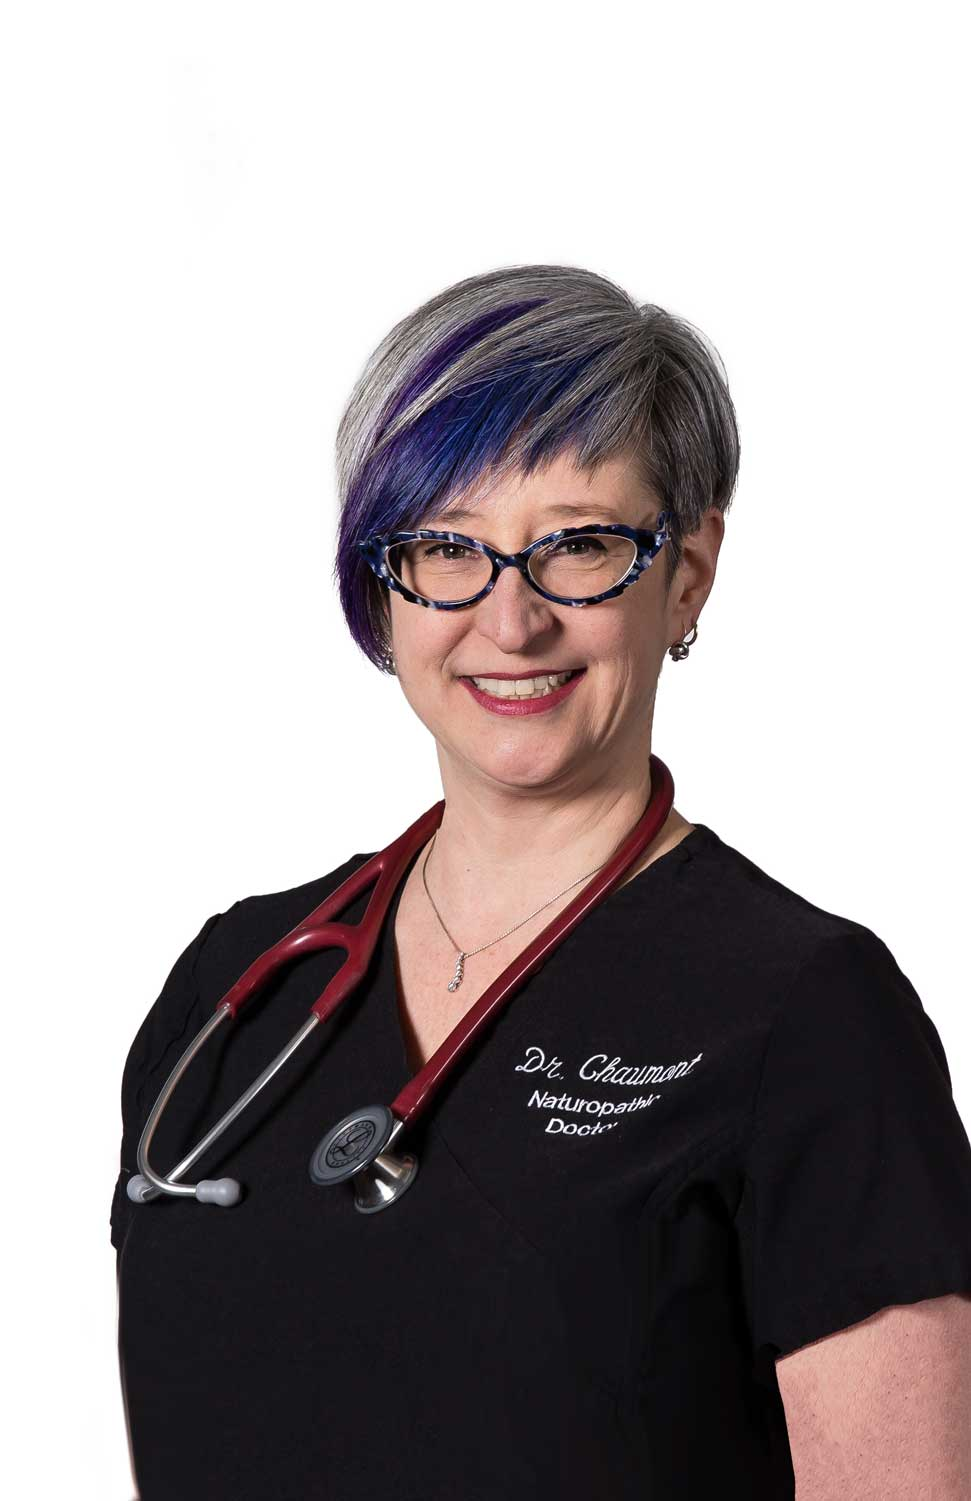
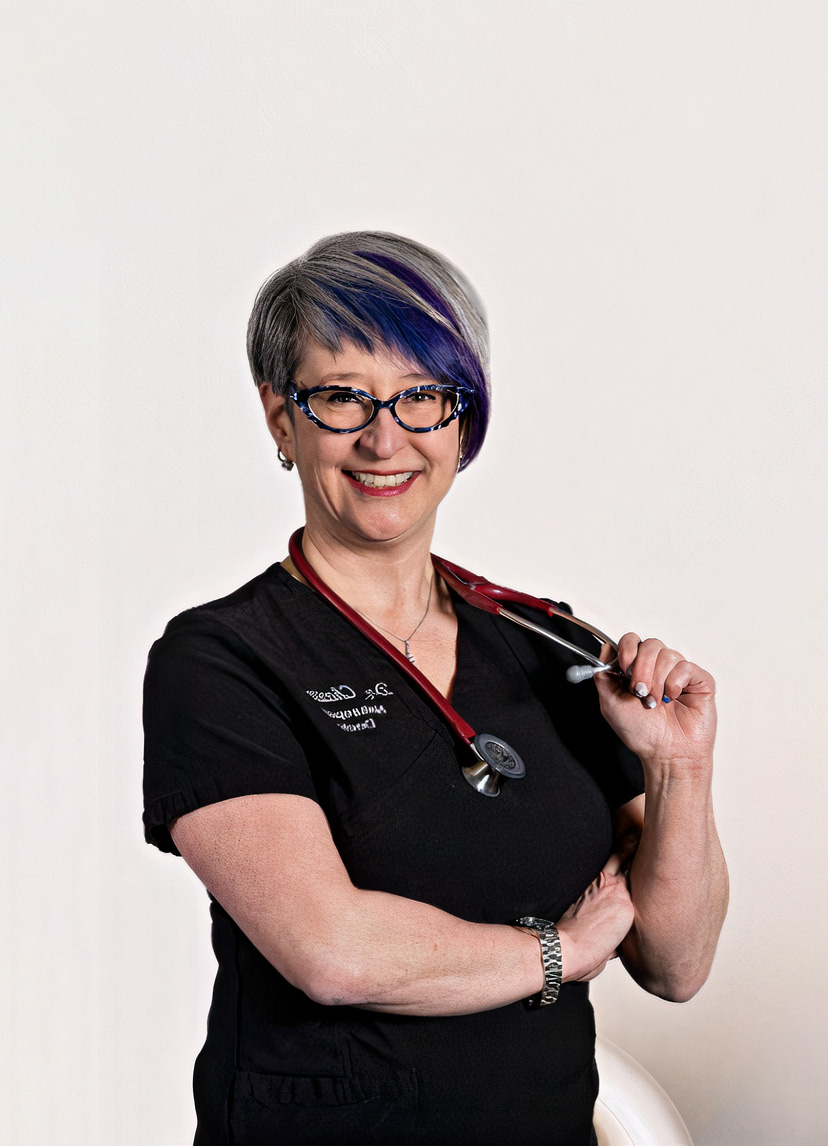
Add Emma & Update Photos: - Added Emma Carpenter to team - Added NST page - Update practitioner photos - Added new massage services - Updated main page hero section

diff --git a/app/assets/stylesheets/styles.scss b/app/assets/stylesheets/styles.scss
@@ -49,14 +49,18 @@
   background-size: cover;
   background-position: center;
   background-repeat: no-repeat;
-  background-image: linear-gradient(rgba(0, 0, 0, 0.2), rgba(0, 0, 0, 0.6)),
-                    image_url("backgrounds/landscape/ayla-at-desk.jpg");
+  background-image: linear-gradient(rgba(255, 255, 255, 0.5), rgba(255, 255, 255, 1)),
+                    image_url("backgrounds/landscape/family.jpg");
 
   @include media-breakpoint-down(md) {
     background-position: 70%;
   }
   &__title {
-    font-size: 2rem;
+    font-size: 4rem;
+    margin-bottom: 0;
+  }
+  &__body {
+    font-size: 1.5rem;
   }
 }
 
@@ -99,7 +103,7 @@
     &--practitioner {
       height: 45rem;
       @include media-breakpoint-down(sm) {
-        height: 20rem;
+        height: 30rem;
       }
     }
   }
@@ -229,22 +233,25 @@
   &--services {
     @include banner__image(30rem, "backgrounds/landscape/explaining.jpg", 0.5);
   }
+  &--team {
+    @include banner__image(30rem, "backgrounds/landscape/team.jpg", 0.5);
+  }
   &--products {
     @include banner__image(30rem, "backgrounds/landscape/herbs.jpg", 0.4);
   }
   &--iv-therapy {
     @include banner__image(30rem, "backgrounds/landscape/iv-lounge.jpg", 0.4);
   }
-  &--injections {
-    @include banner__image(30rem, "backgrounds/landscape/injections.jpg", 0.4);
+  &--nst {
+    @include banner__image(30rem, "backgrounds/landscape/neurostructural-integration-technique.jpg", 0.4);
   }
   &--article {
     @include banner__image(30rem, "backgrounds/landscape/holding.jpg", 0.4);
   }
-  &--faq-1 {
+  &--naturopathy-1 {
     @include banner__image(30rem, "backgrounds/landscape/kitchen.jpg", 0.4);
   }
-  &--faq-2 {
+  &--naturopathy-2 {
     @include banner__image(26rem, "backgrounds/landscape/stretch.jpg", 0.4) ;
   }
 }

diff --git a/config/routes.rb b/config/routes.rb
@@ -10,12 +10,13 @@ Rails.application.routes.draw do
     get 'products', to: 'pages#products'
     get 'services', to: 'pages#services'
     get 'iv-therapy', to: 'pages#iv_therapy'
-    get 'injections', to: 'pages#injections'
-    get 'faq', to: 'pages#faq'
+    get 'neurostructural-integration-technique', to: 'pages#nst', as: 'nst'
+    get 'naturopathy', to: 'pages#naturopathy'
     get 'team', to: 'pages#team'
 
     # Redirect List
     get 'iv_therapy', to: redirect("iv-therapy"), status: 301
+    get 'faq', to: redirect("naturopathy"), status: 301
 
     # Article Routes
     resources :articles

diff --git a/app/controllers/pages_controller.rb b/app/controllers/pages_controller.rb
@@ -6,7 +6,7 @@ class PagesController < ApplicationController
     @team_members = JSON.parse(File.read('public/json/team_members.json'))
   end
 
-  def faq
+  def naturopathy
     @treatments = JSON.parse(File.read('public/json/treatments.json'))
   end
 
@@ -19,8 +19,7 @@ class PagesController < ApplicationController
     @steps = JSON.parse(File.read('public/json/steps.json'))
   end
 
-  def injections
-    @logos = JSON.parse(File.read('public/json/logos.json'))
+  def nst
   end
 
   def products
